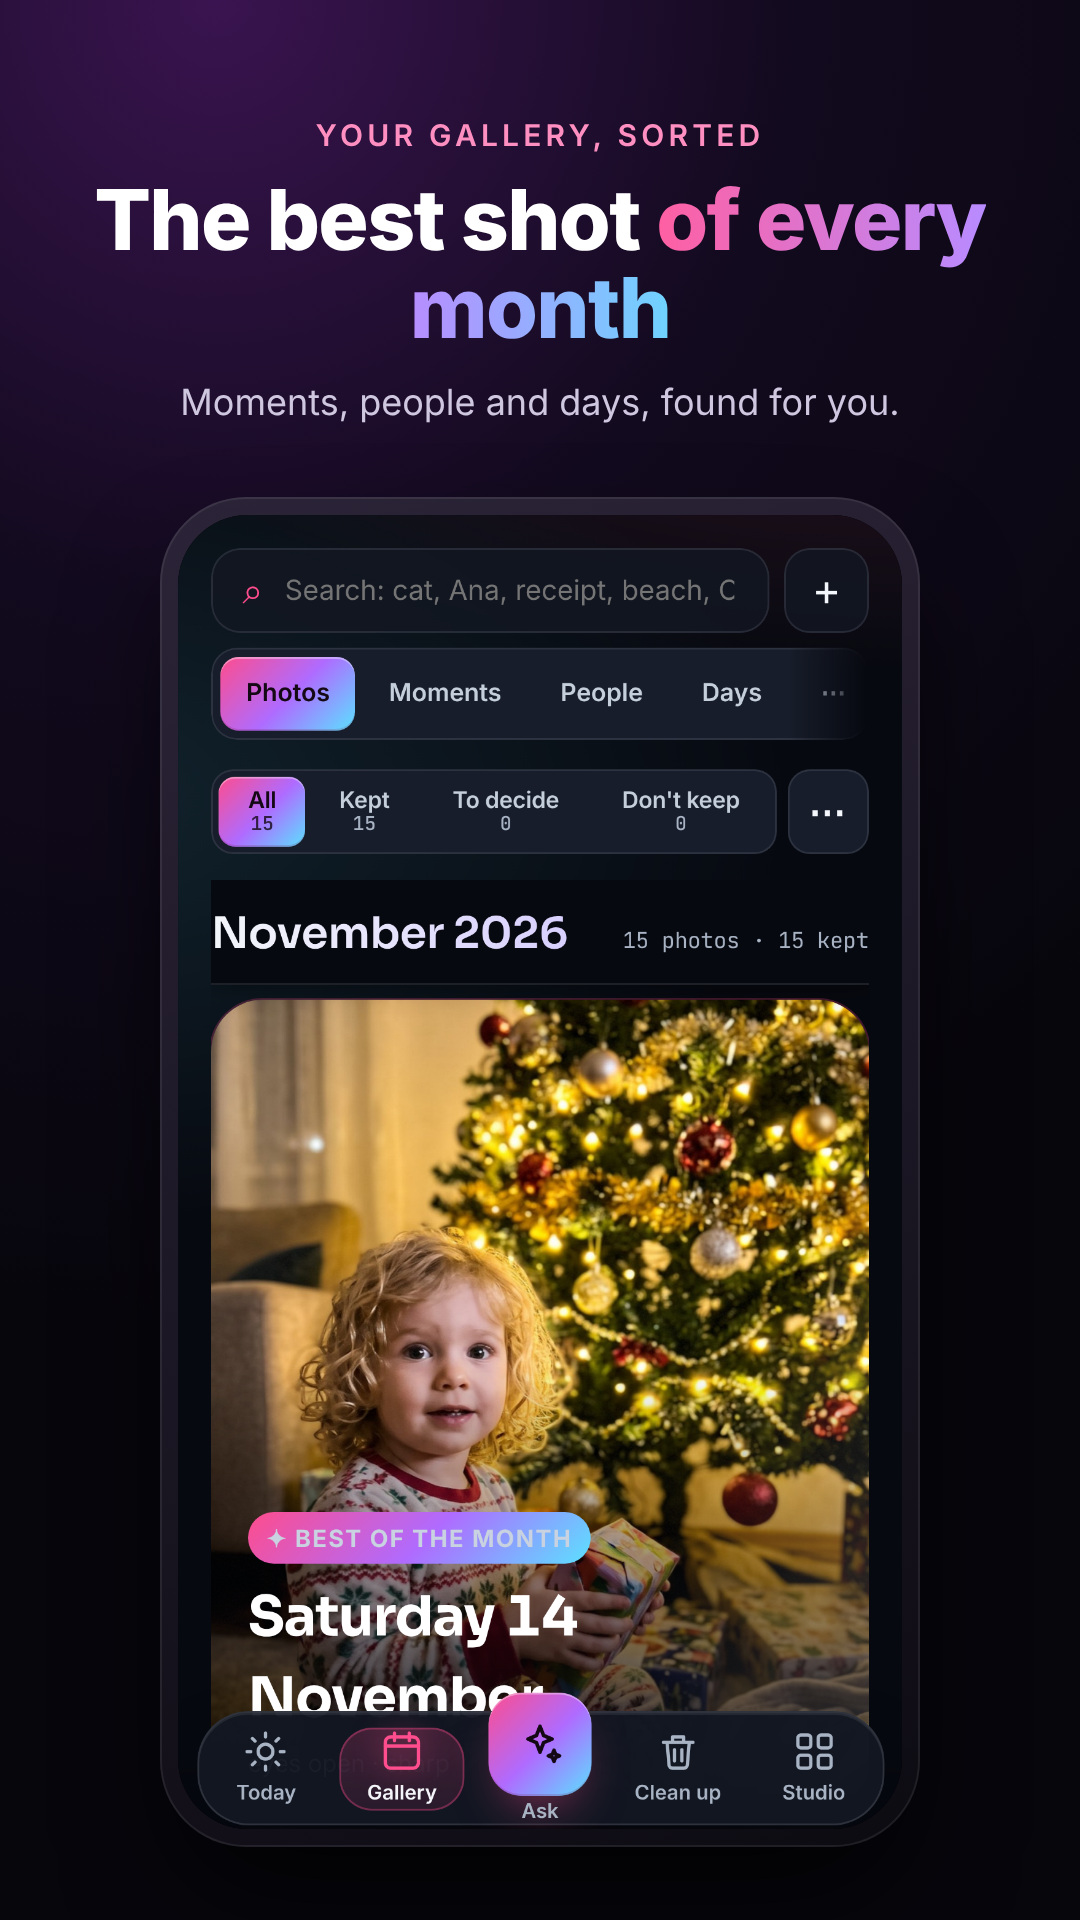
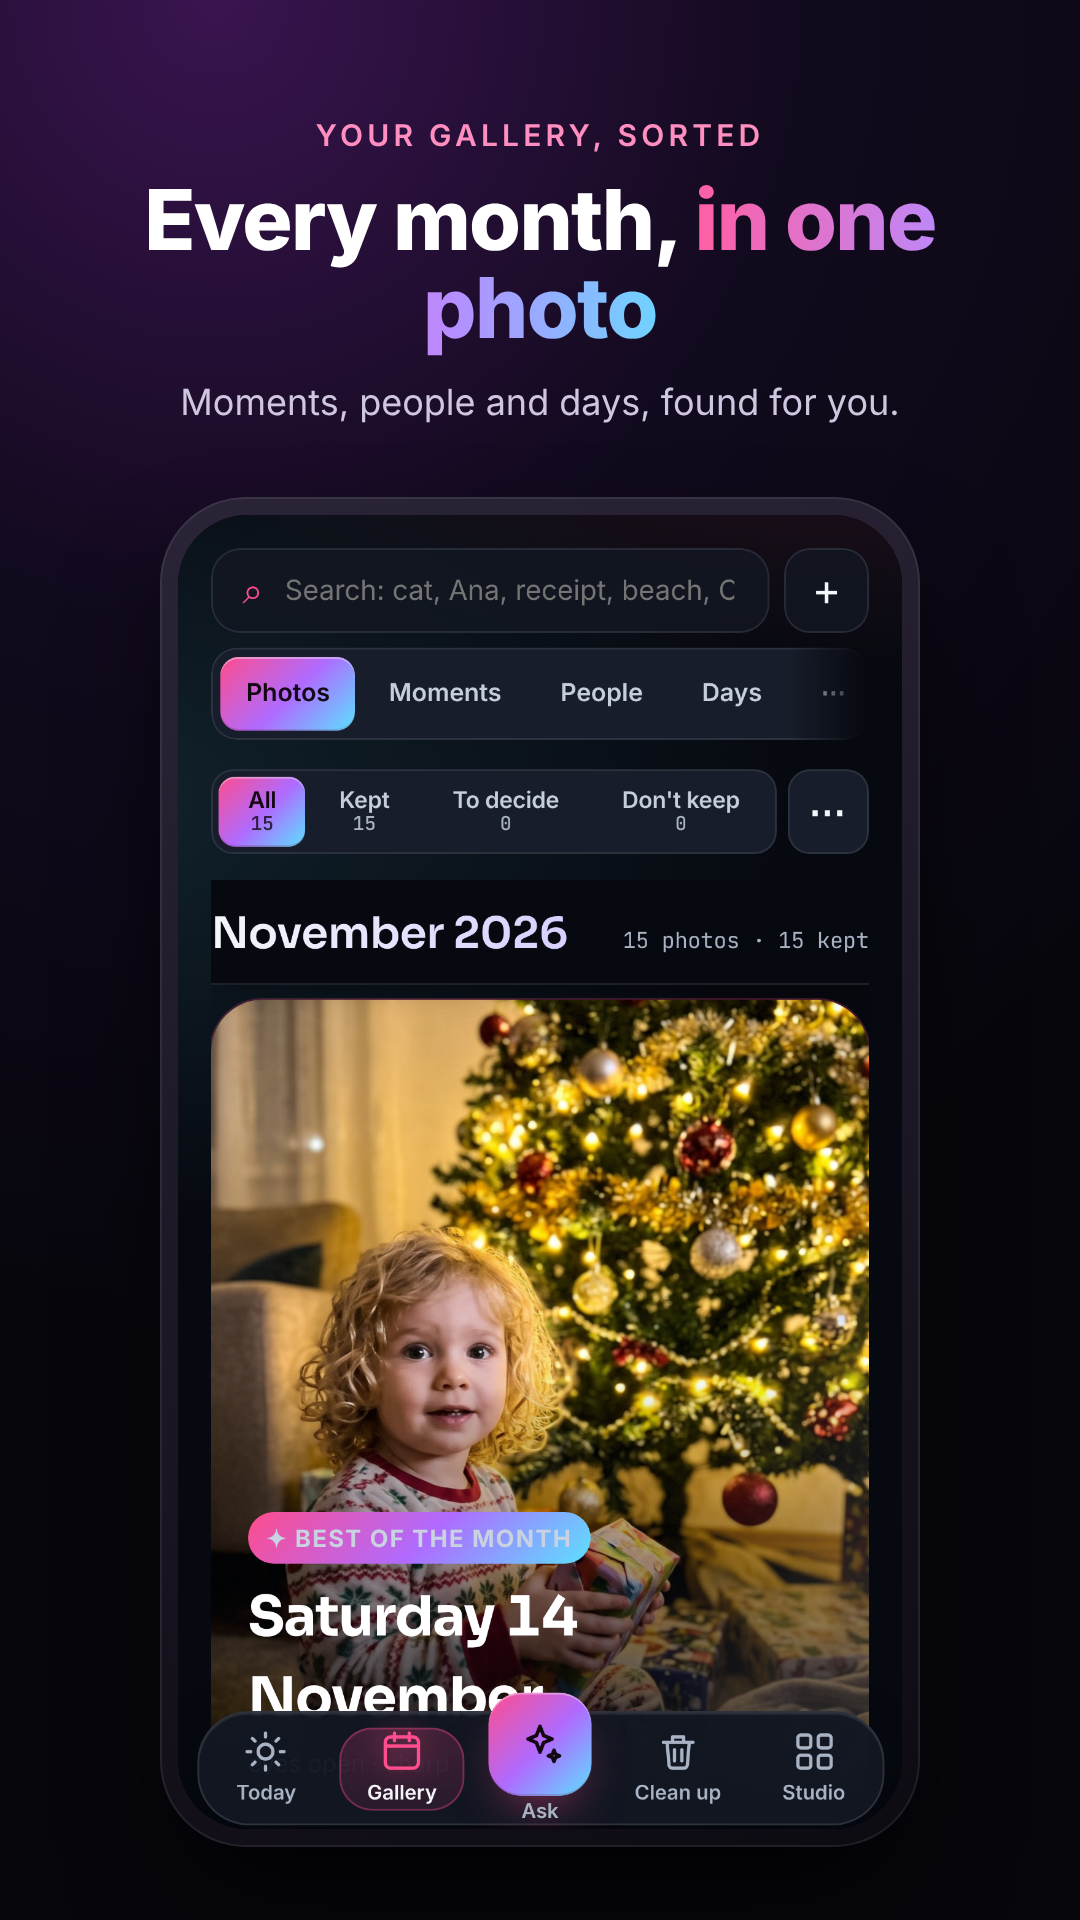
Store: grafica prezentată și capturile 1, 5, 6 fără „cele mai bune / best”
Claude-Session: https://claude.ai/code/session_01HYqyt1saCQsqgsJoCCAbVx

Changed region(s): [[0.0917, 0.0938, 0.9167, 0.1875]]

diff --git a/docs/PLAY_STORE_LISTING_CHERRYPIC.md b/docs/PLAY_STORE_LISTING_CHERRYPIC.md
@@ -7,7 +7,7 @@ Lumin AI devine **Cherrypic**. Pe Play e o **actualizare** a aceleiași aplicaț
 
 ## Imagini
 - Pictograma aplicației (512×512): `docs/play/icon-512.png`
-- Grafica prezentată (1024×500), tema black rose: `store/screenshots-new/feature-graphic-ro.png` și `feature-graphic-en.png`
+- Grafica prezentată (1024×500), tema black rose: `store/screenshots/feature-graphic-ro.png` și `feature-graphic-en.png` (fără „cele mai bune”: Play nu promovează fișele cu cuvinte de clasament)
 - Capturile (8 pe limbă, 1080×1920): `store/screenshots/ro/` și `en/` (interfața 3.5), cu poze generate de AI (fără oameni reali).
 
 ## Română (ro-RO), limba implicită
